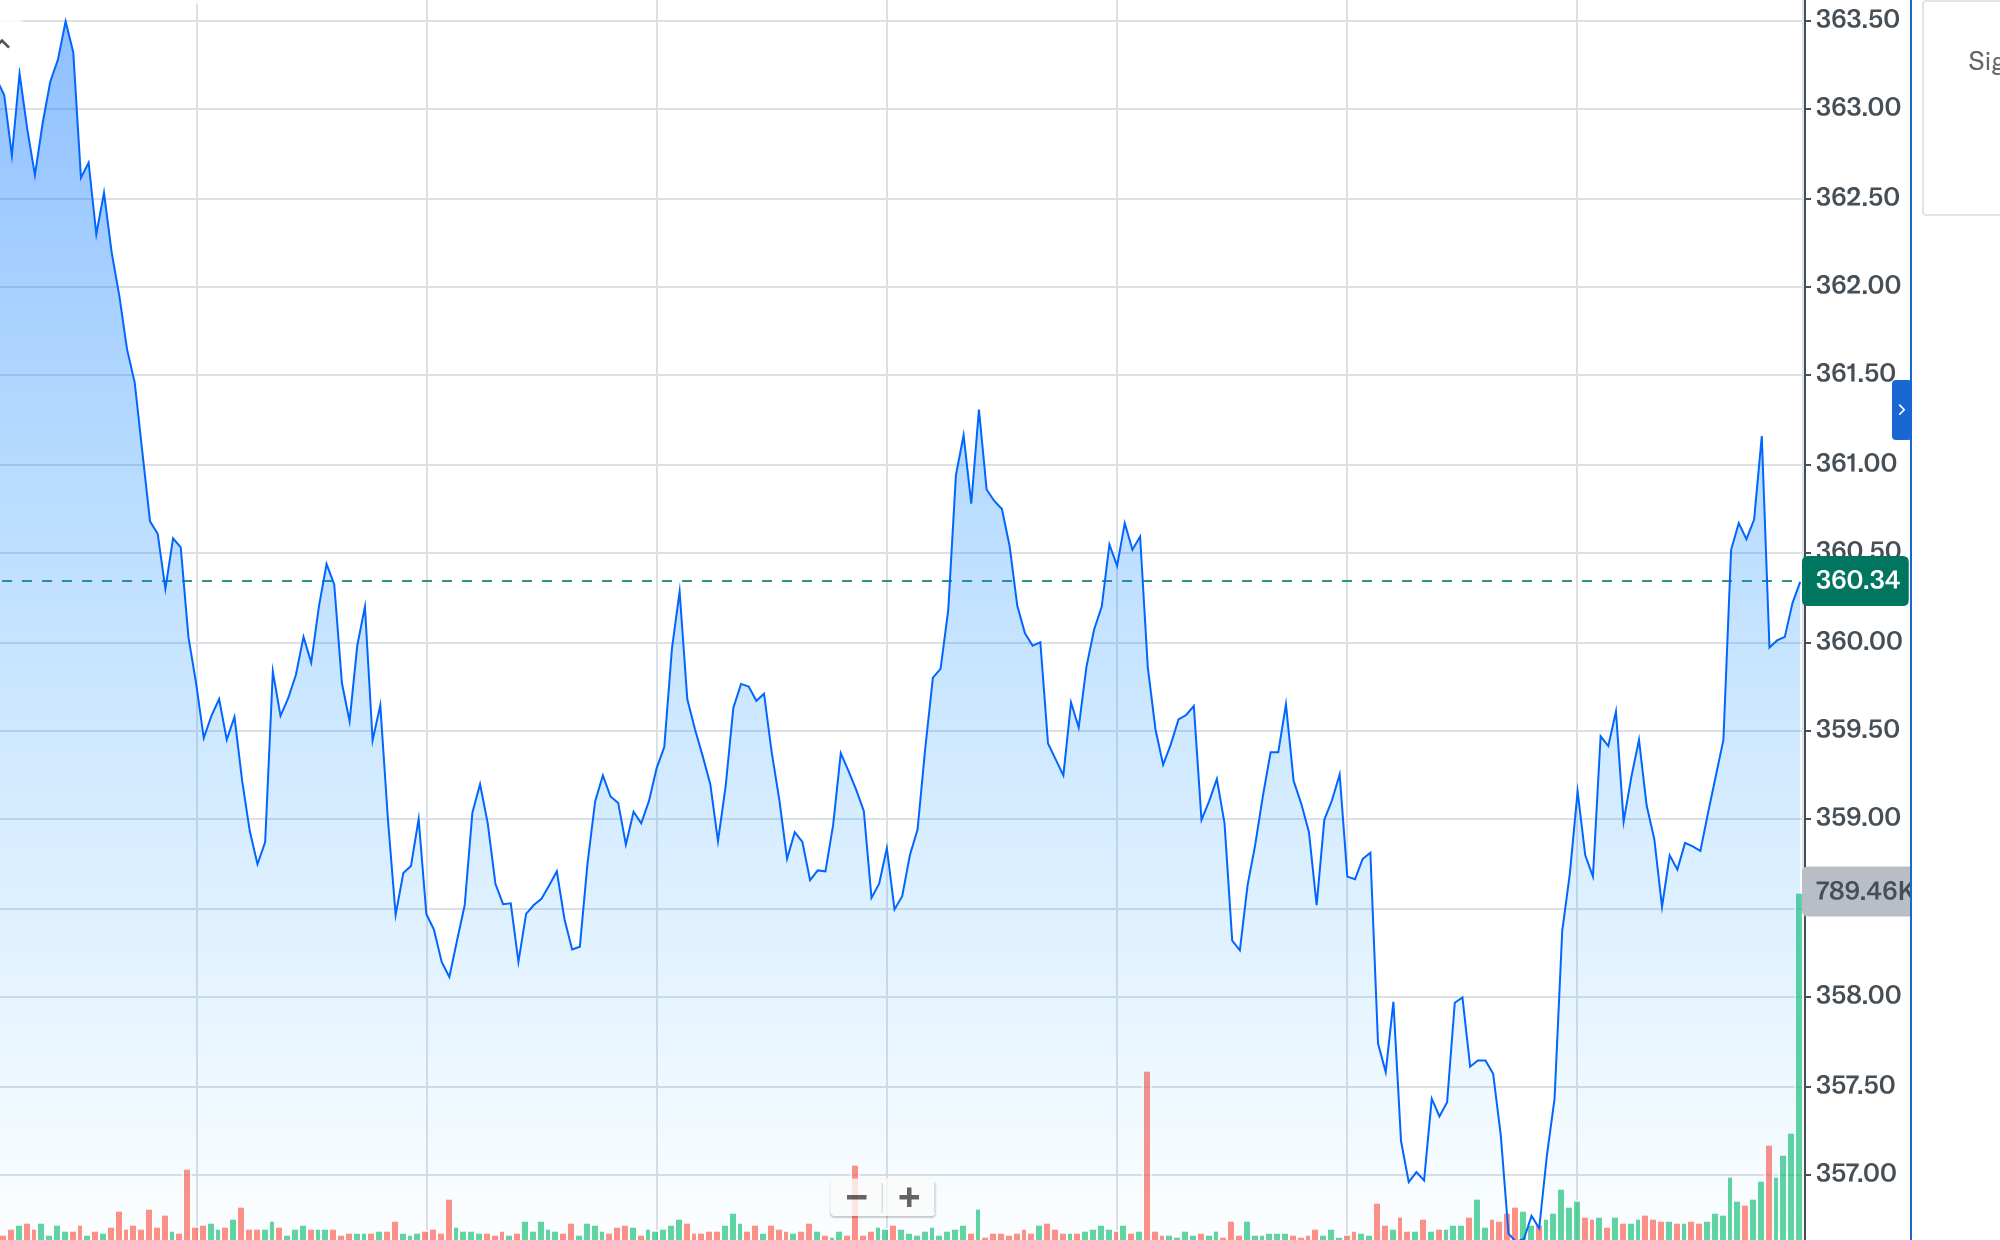
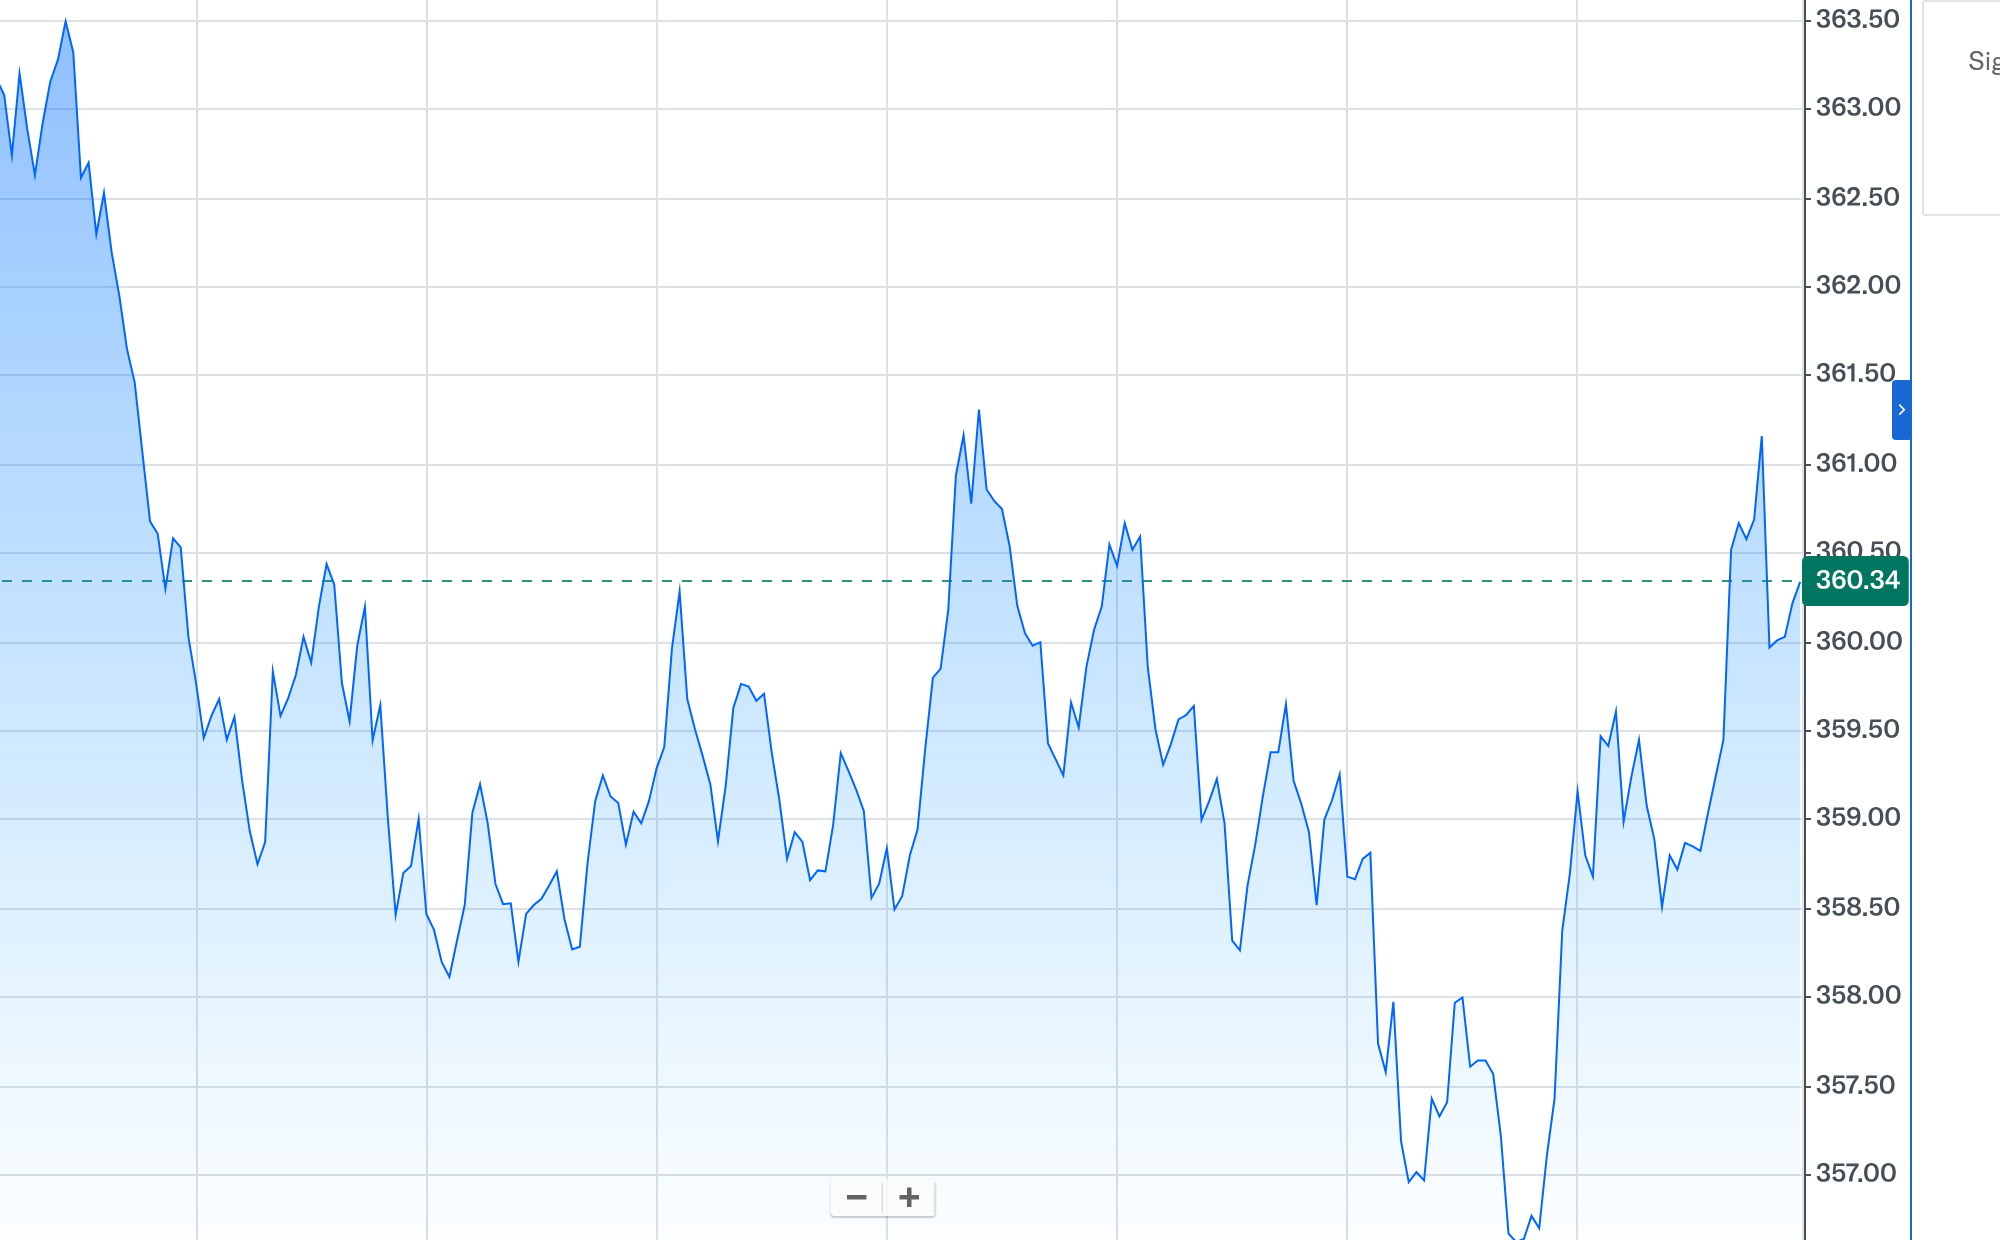
fix: G3 Flash 測試 K線圖庫

Changed region(s): [[0.0, 0.9194, 0.899, 1.0], [0.899, 0.6742, 0.961, 0.7661]]

diff --git a/charts/2026-07-05.html b/charts/2026-07-05.html
@@ -110,7 +110,7 @@ body{font-family:-apple-system,BlinkMacSystemFont,"Segoe UI","PingFang TC","Noto
 </div>
 
 <div class="foot">
-    📊 自動產生於 2026-07-05 06:05 UTC<br>
+    📊 自動產生於 2026-07-05 10:14 UTC<br>
     資料來源：<a href="https://finance.yahoo.com" target="_blank">Yahoo Finance</a> · 原始碼 <a href="https://github.com/acstep/stock-charts" target="_blank">github.com/acstep/stock-charts</a>
 </div>
 </div>